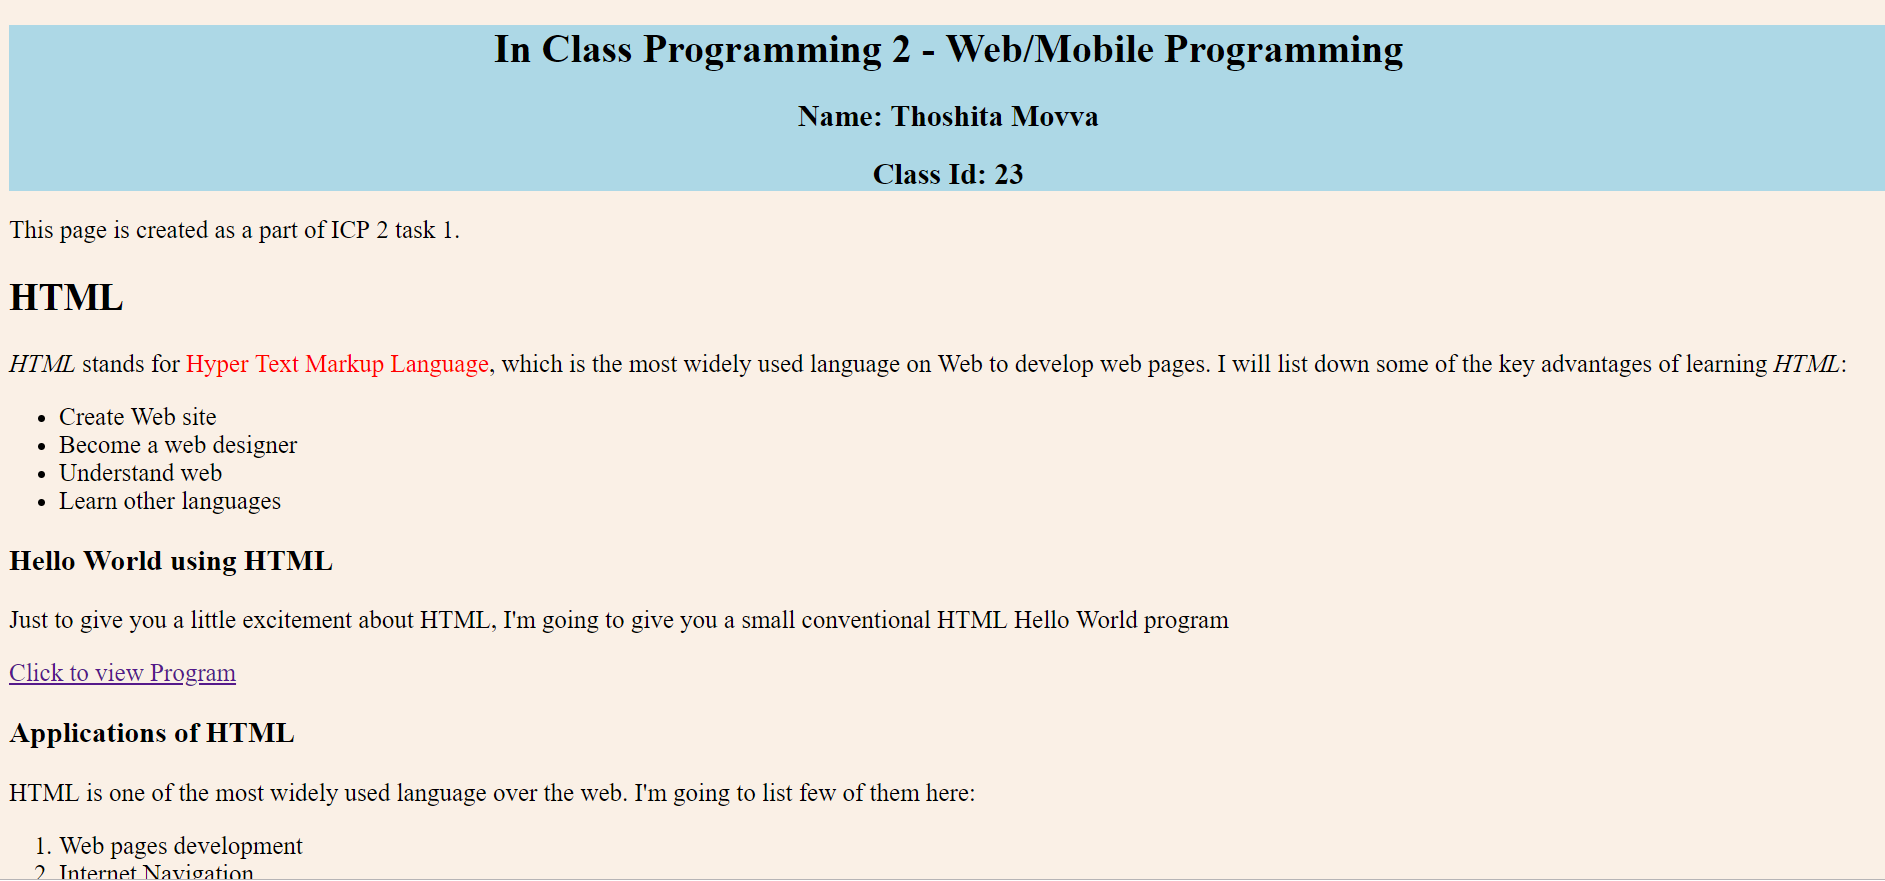
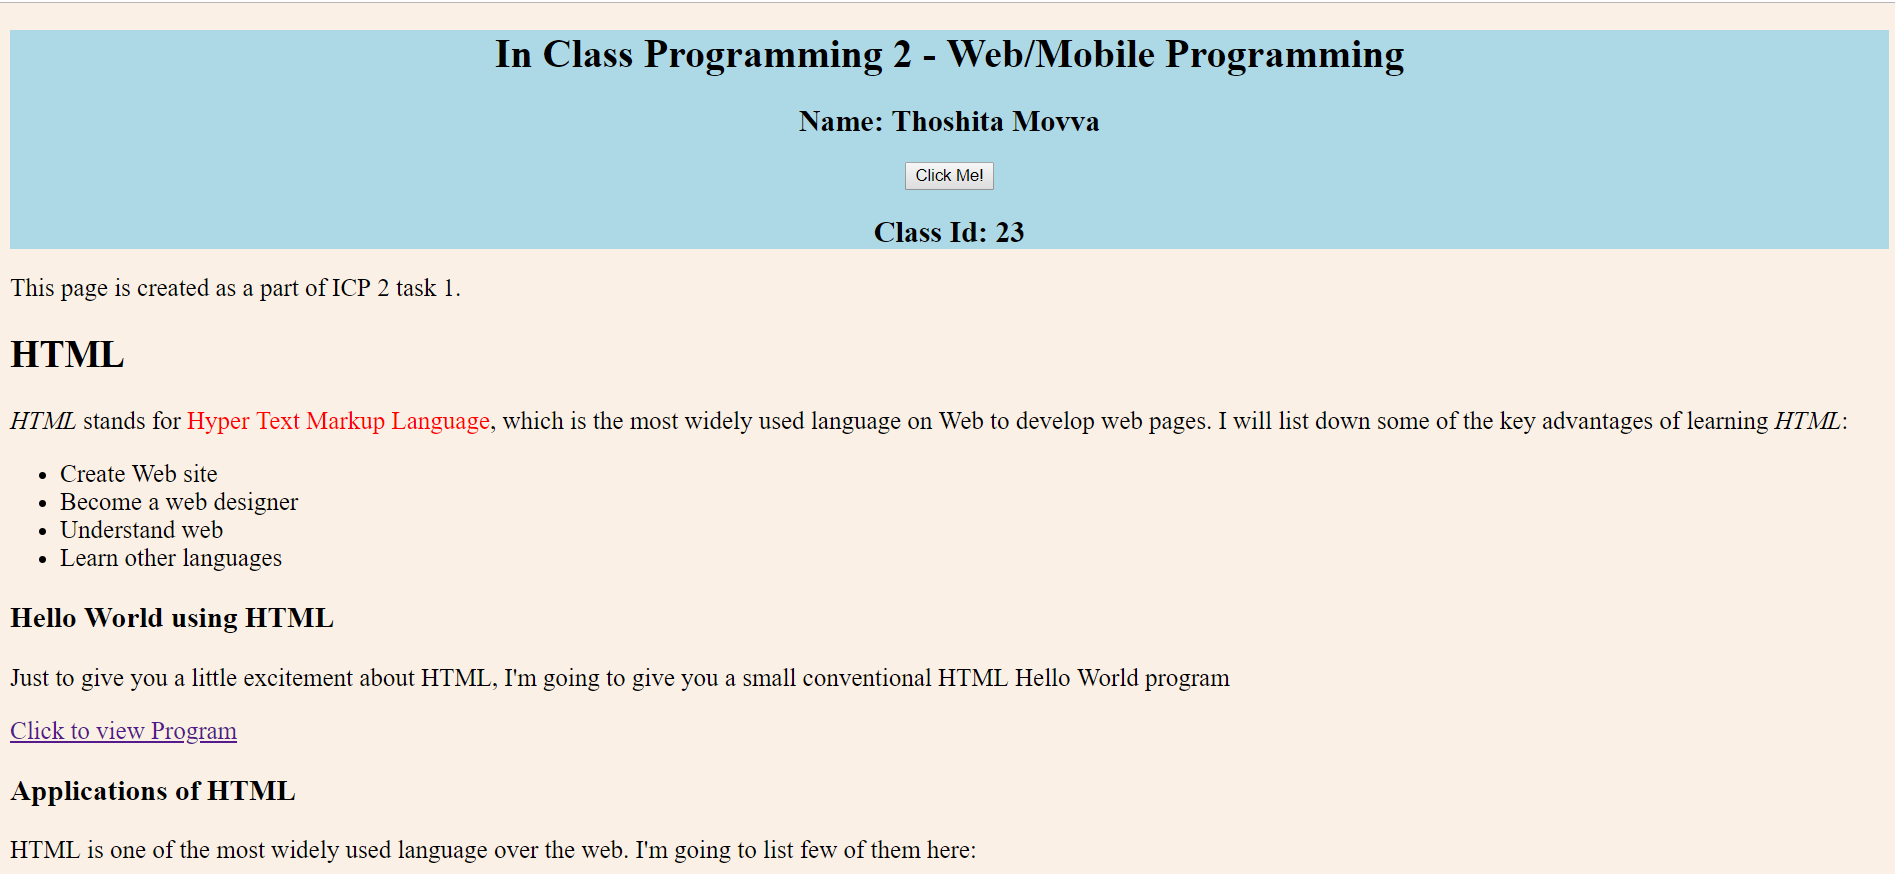
ICP 2

diff --git a/Source/ICP 2/ICP HTML 2.1.html b/Source/ICP 2/ICP HTML 2.1.html
@@ -9,8 +9,11 @@
 <div class="heading">
     <div style="background-color:lightblue">
     <h1>In Class Programming 2 - Web/Mobile Programming</h1>
-    <h2>Name: Thoshita Movva</h2>
-    <h2>Class Id: 23</h2>
+    <h2>Name: Thoshita Movva </h2>
+
+        <button type="circle" onclick="alert('Hi! How are you doing!')">Click Me!</button>
+
+        <h2>Class Id: 23</h2>
     </div>
 </div>
 <div class="container">
